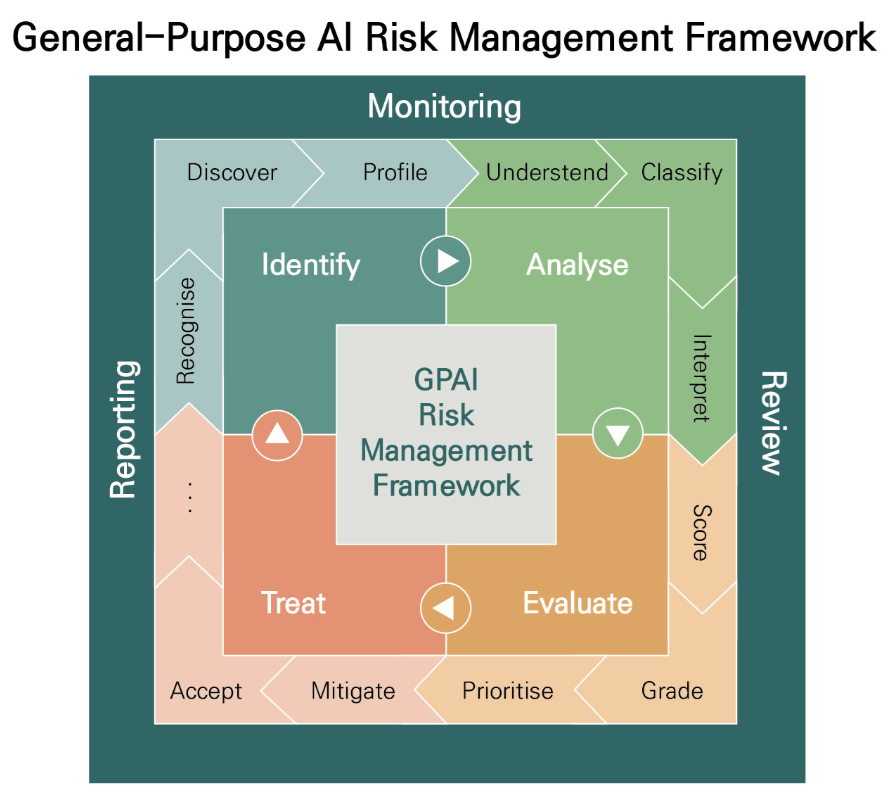
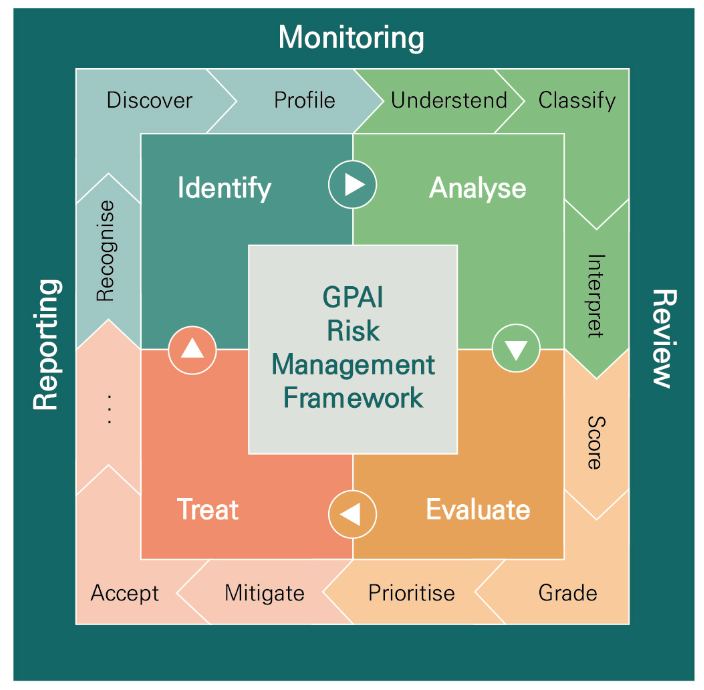
Update project cards to show figure images and misc profile tweaks
- Replace emoji icons with figure images on project cards
- Widen project icon to 200px with cover fit
- Add Google Scholar link to profile
- Change greeting from Hi to Hello
- Update GPAI figure image

diff --git a/src/components/Projects.jsx b/src/components/Projects.jsx
@@ -36,7 +36,12 @@ export default function Projects() {
             style={{ "--delay": `${index * 0.08}s` }}
           >
             <div className="projects__icon">
-              <span className="projects__emoji">{project.emoji}</span>
+              <img
+                src={project.figure || project.image}
+                alt={project.shortName || project.title}
+                className="projects__figure"
+              />
+              <span className="projects__emoji" hidden>{project.emoji}</span>
             </div>
             <span className="projects__name">
               {project.shortName || project.title}

diff --git a/src/components/About.jsx b/src/components/About.jsx
@@ -72,7 +72,7 @@ export default function About() {
 
         <div className="about__description fade-in" style={{ "--delay": "0.3s" }}>
           <p>
-            Hi! I'm a Ph.D student in the Department of Artificial Intelligence at Hanyang University.
+            Hello! I'm a Ph.D student in the Department of Artificial Intelligence at Hanyang University.
             I am advised by{" "}
             <a href="https://scholar.google.com/citations?user=htyp0xsAAAAJ&hl=ko" target="_blank" rel="noopener noreferrer" className="about__link">
               Prof. Kyungsik Han

diff --git a/src/components/Projects.css b/src/components/Projects.css
@@ -38,8 +38,9 @@
 }
 
 .projects__icon {
-  width: 160px;
+  width: 200px;
   height: 160px;
+  overflow: hidden;
   display: flex;
   align-items: center;
   justify-content: center;
@@ -49,6 +50,13 @@
   max-width: 100%;
   max-height: 100%;
   object-fit: contain;
+}
+
+.projects__figure {
+  width: 100%;
+  height: 100%;
+  object-fit: cover;
+  border-radius: 8px;
 }
 
 .projects__emoji {
@@ -90,7 +98,7 @@
   }
 
   .projects__icon {
-    width: 120px;
+    width: 150px;
     height: 120px;
   }
 

diff --git a/src/data/profile.js b/src/data/profile.js
@@ -15,7 +15,7 @@ const profile = {
     "AI for Social Good",
   ],
   links: {
-    googleScholar: "",
+    googleScholar: "https://scholar.google.com/citations?user=ORZoZv4AAAAJ&hl=en",
     github: "https://github.com/haaaein",
     linkedin: "https://www.linkedin.com/in/haein-yeo-7b875a255/",
     cv: "/cv.pdf",
